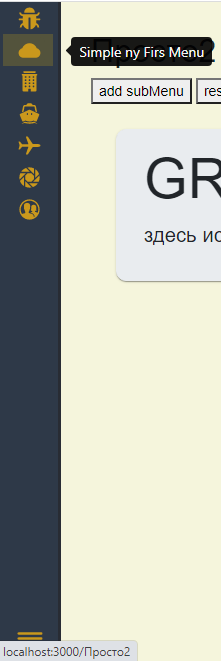
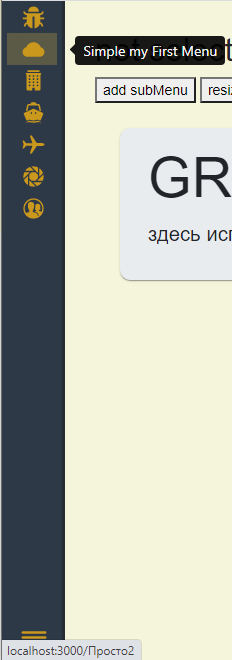
add npm install addin

diff --git a/src/TestTree.js b/src/TestTree.js
@@ -33,13 +33,13 @@ barData.head=new Head(myHeader())
 }
 {
     const mymenu=new MenuItem();
-    mymenu.content= "Simple my Firs Menu"
+    mymenu.content= "Simple my First Menu"
     mymenu.isShow=true;
     mymenu.href="Просто2";
     mymenu.imageSrc=<BiFolder  color={colorImage} size={imgSize}/>
     mymenu.imageSrcOpen=<BiFolderOpen  color={colorImage} size={imgSize}/>
     mymenu.imageSize=23;
-    mymenu.tooltip="Simple ny Firs Menu"
+    mymenu.tooltip="Simple my First Menu"
     barData.menuItems.push(mymenu);
     {
         const mi=new MenuItem();

diff --git a/src/TestMenu.js b/src/TestMenu.js
@@ -52,7 +52,7 @@ barData.head=new Head(myHeader())
     mymenu.href="Просто2";
     mymenu.imageSrc=<AiFillCloud  color={colorImage} size={imgSize}/>
     mymenu.imageSize=23;
-    mymenu.tooltip="Simple ny Firs Menu"
+    mymenu.tooltip="Simple my First Menu"
     barData.menuItems.push(mymenu);
 
     {

diff --git a/README.md b/README.md
@@ -1,13 +1,13 @@
-# Динамическое меню
-Проект для audio.
+# Динамическое меню проект audio
+
 Динамическое меню на React, bootstrap5 
-####Можно использовать как Tree;
+#### Можно использовать как Tree;
 ![Alt text](img1.png "Title")
 #### как меню;
 ![Alt text](img2.png "Title")
 #### как меню в закрытом состоянии;
 ![Alt text](img3.png "Title")
-Магия, меню работает на основе объекта модели BarData
+меню работает на основе объекта модели BarData
 ``````
  class BarData extends Dispatcher{
     constructor() {
@@ -167,7 +167,7 @@ barData.on("onclick",(menuitem)=>{
     //barData.forceUpdate(); рефрешим показ
 })
 `````
-###установка: 
+### установка: 
 ```
 npm install https://github.com/ionson100/sidebarion
 ```
@@ -249,7 +249,7 @@ barData.head=new Head(myHeader())
     mymenu.href="Просто2";
     mymenu.imageSrc=<AiFillCloud  color={colorImage} size={imgSize}/>
     mymenu.imageSize=23;
-    mymenu.tooltip="Simple ny Firs Menu"
+    mymenu.tooltip="Simple my First Button"
     barData.menuItems.push(mymenu);
 
     {
